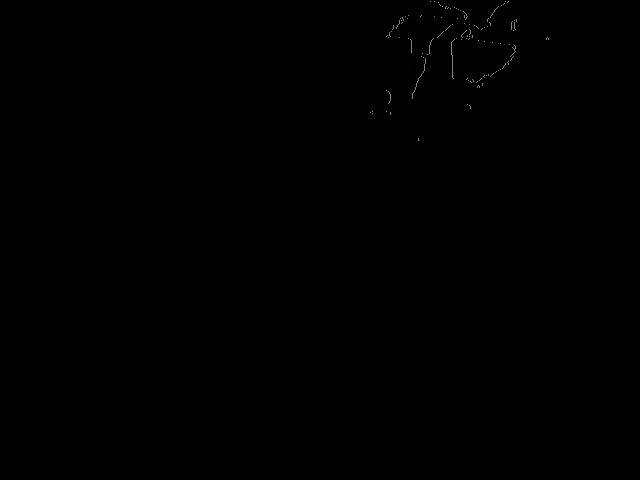
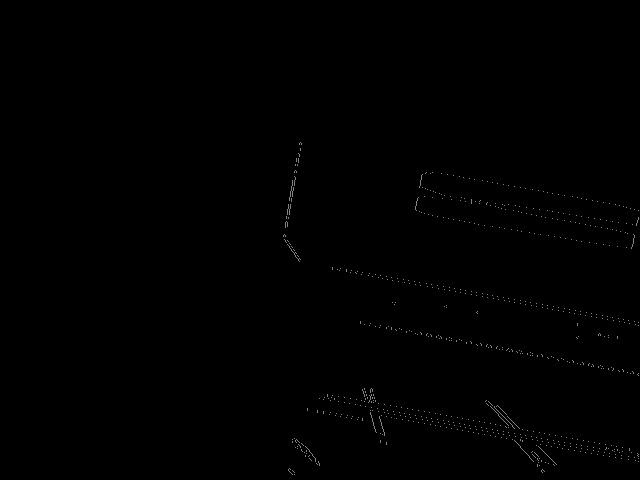
já identifica diferença entre as areas

Changed region(s): [[0.7812, 0.875, 0.8125, 0.9062], [0.5625, 0.8125, 0.5938, 0.8438], [0.4688, 0.9375, 0.5, 0.9688]]

diff --git a/contornos do fogo.py b/contornos do fogo.py
@@ -7,6 +7,7 @@ Created on Tue May  8 16:39:56 2018
 import time
 import winsound as som
 import numpy as np
+import pandas as pd
 import cv2
 #captura.release()
 
@@ -14,36 +15,41 @@ captura = cv2.VideoCapture(0)
 
 #imagem = cv2.imread('imagens/luzes.jpg')
 inicio = 0
-areas1 = np.empty
+
+areas0 = pd.DataFrame(columns=['contorno','area','x','y'])
+areas1 = pd.DataFrame(columns=['contorno','area','x','y'])
+area_comparacao = pd.DataFrame(columns=['contorno','area','x','y'])
 
 while True:
+
+    areas0 = areas0.drop(areas0.index)
+
     ret,frame = captura.read()
     frame = cv2.flip(frame,1)
+    
     #frame = cv2.pyrDown(imagem)
     gray = cv2.cvtColor(frame,cv2.COLOR_BGR2GRAY)    
         
     ret,binaria = cv2.threshold(gray, 240, 255, cv2.THRESH_BINARY)
-    bordas = cv2.Canny(binaria,20, 170)
+    bordas = cv2.Canny(binaria,20, 170)    
     
-    cv2.imshow('canny', bordas)
-    
+    cv2.imshow('original',bordas)
+
+
     contornos, hierarquia = cv2.findContours(bordas, cv2.RETR_EXTERNAL, cv2.CHAIN_APPROX_NONE)
     contornos = sorted(contornos, key=cv2.contourArea, reverse=True)
     tamanhoFonte = 1
     espessura = 1
 
-    #Array vazio com as N(quantidade de contornos) tuplas: (x do centro, y do centro, área) em relação ao contorno
-    areas0 = np.zeros([1,len(contornos),4])
-    area_comparacao = np.zeros([1,len(contornos),4])
-
     #Verifica se algum contorno foi encontrado
     if (len(contornos)>0):
         #loop em cada contorno
-        for i in range(len(contornos)):
+        for i in range(len(contornos)):            
             
             M = cv2.moments(contornos[i])
             #escolhe contornos com área maior que 20 pixels
             if (M['m00'] > 20):
+                
                 x,y = int(M['m10']/M['m00'])	, int(M['m01']/M['m00']) #cordenada x do centroide e cordenada y do centroide
 
                 #desenha um círculo e um quadrado no centro do contorno
@@ -52,36 +58,63 @@ while True:
 
                 #area do contorno
                 area = cv2.contourArea(contornos[i])
-                areas0[0,i] = contornos[i],x,y,area
+                
+                areas0 = areas0.append({'contorno':contornos[i],
+                                        'area':area,
+                                        'x':x,'y':y
+                                        },ignore_index=True)
 
 #VERIFICAR SE DÁ PRA COMPARAR O MATCH DOS CONTORNOS AO INVES DOS CENTROIDES    
-    if (inicio!=0):
-        for i in range(len(areas0)):
-            for j in areas1:
-                if (areas1[0,j,1]>(areas0[0,i,1]-10) &
-                    areas1[0,j,1]<(areas0[0,i,1]+10) &
-                    areas1[0,j,2]>(areas0[0,i,2]-10) & 
-                    areas1[0,j,2]<(areas0[0,i,2]+10)):
-                    area_comparacao[0,i] = areas0[0,i]
-                    area_comparacao[0,i,3] = areas1[0,j,3] - areas0[0,i,3]
-    else:
-        inicio = 1    
     
-    for i in range(len(area_comparacao)):
-        #se houver um aumento (maior que 20 pixels) na área de algum contorno
-        if (area_comparacao[0,i,3]>20):
-            M = cv2.moments(area_comparacao[0,i,0])
-            x,y = int(M['m10']/M['m00'])	, int(M['m01']/M['m00']) #cordenadas x e y do centroide
+    if (inicio!=0):
+        
+        print ('111 areas0: ',areas0)
+        print 'areas1: ',areas1
+                    
+        if (len(areas0)!=0):
+            for i in range(len(areas0)):
+                for j in range(len(areas1)):
 
-            #desenha um círculo e um quadrado no centro do contorno
-            cv2.circle(frame,(x,y),2,(255,255,0),espessura+2)
-            cv2.rectangle(frame,(x-10,y-10),(x+10,y+10),(255,0,255),espessura+2)
-            cv2.putText(frame,'fogo',(x-400,y-100),cv2.FONT_HERSHEY_COMPLEX,tamanhoFonte,(0,255,255),espessura)
-            som.Beep(1000,10000)
+                    print "x de areas 1: ", areas1['x'][j]
+                    print "x de areas 0: ", areas0['x'][i]
+                    print "y de areas 1: ", areas1['y'][j]
+                    print "y de areas 0: ", areas0['y'][i]
+                    
+                    if (areas1['x'][j]>(areas0['x'][i]-10) and
+                        areas1['x'][j]<(areas0['x'][i]+10) and
+                        areas1['y'][j]>(areas0['y'][i]-10) and
+                        areas1['y'][j]<(areas0['y'][i]+10)):
+                        
+                        area_comparacao = area_comparacao.append({'contorno':areas0['contorno'][i],
+                                        'area':(areas1['area'][j] - areas0['area'][i]),
+                                        'x':areas0['x'][i],'y':areas0['y'][i]
+                                        },ignore_index=True)
+                            
+    else:
+        inicio = 1
+
+    if (len(area_comparacao)!=0):
+
+        for i in range(len(area_comparacao['contorno'])):
+            #se houver um aumento (maior que 20 pixels) na área de algum contorno
+            print ('area das diferenca',area_comparacao['area'][i])
             
+            if (area_comparacao['area'][i]>10):
+                print ('9 - iferenca maior que 10')
+                M = cv2.moments(area_comparacao['contorno'][i])
+                x,y = int(M['m10']/M['m00'])	, int(M['m01']/M['m00']) #cordenadas x e y do centroide
+    
+                #desenha um círculo e um quadrado no centro do contorno
+                cv2.circle(frame,(x,y),2,(255,255,0),espessura+2)
+                cv2.rectangle(frame,(x-10,y-10),(x+10,y+10),(255,0,255),espessura+2)
+                cv2.putText(frame,'fogo',(x-400,y-100),cv2.FONT_HERSHEY_COMPLEX,tamanhoFonte,(0,255,255),espessura)
+                som.Beep(1000,10000)
+
+    #print ('area0: ',areas0)
+    #print ('area1: ',areas1)
     #Cópia de areas0 pra comparar as áreas e os centroides em momentos diferentes
-    areas1 = np.copy(areas0)
-    time.sleep(1000)
+    areas1 = areas0.copy()
+    #time.sleep(1000)
 
 #FAZER AQUI COMPARAÇÃO ENTRE AS ÁREAS
                 #ESCOLHER ENTRE AS OPÇÕES:
@@ -89,7 +122,6 @@ while True:
                     #COMPARAR OS CENTROS CONTORNO A CONTORNO E QUANDO DER MATCH COMPARAR AS ÁREAS (USANDO UM FOR)
                     #ORDENAR OS CONTORNOS DE ACORDO COM A POSIÇÃO DO CENTROIDE E COMPARAR OS DE ACORDO COM A ORDEM
     
-    cv2.imshow('original',frame)
     
 #para de filmar ao pressionar a tecla "enter"
     if cv2.waitKey(1) == 13:

diff --git a/caracterização de pixel.py b/caracterização de pixel.py
@@ -8,15 +8,15 @@ Created on Mon Apr 30 18:37:19 2018
 #no posicionameto físico de um pixel a ordem é: x,y, na localização do pixel na matriz linha x coluna é y,x
 import cv2
 #captura.release()
-#captura = cv2.VideoCapture(0)
+captura = cv2.VideoCapture(0)
 
-imagem = cv2.imread('imagens/babuino.jpg')
+#imagem = cv2.imread('imagens/babuino.jpg')
 
 while True:
-#    ret,frame = captura.read()
-#    frame = cv2.flip(frame,1)
+    ret,frame = captura.read()
+    frame = cv2.flip(frame,1)
     
-    frame = imagem
+ #   frame = imagem
     
     x_centro = int(frame.shape[1]/2)    #x central
     y_centro = int(frame.shape[0]/2)    #y central
